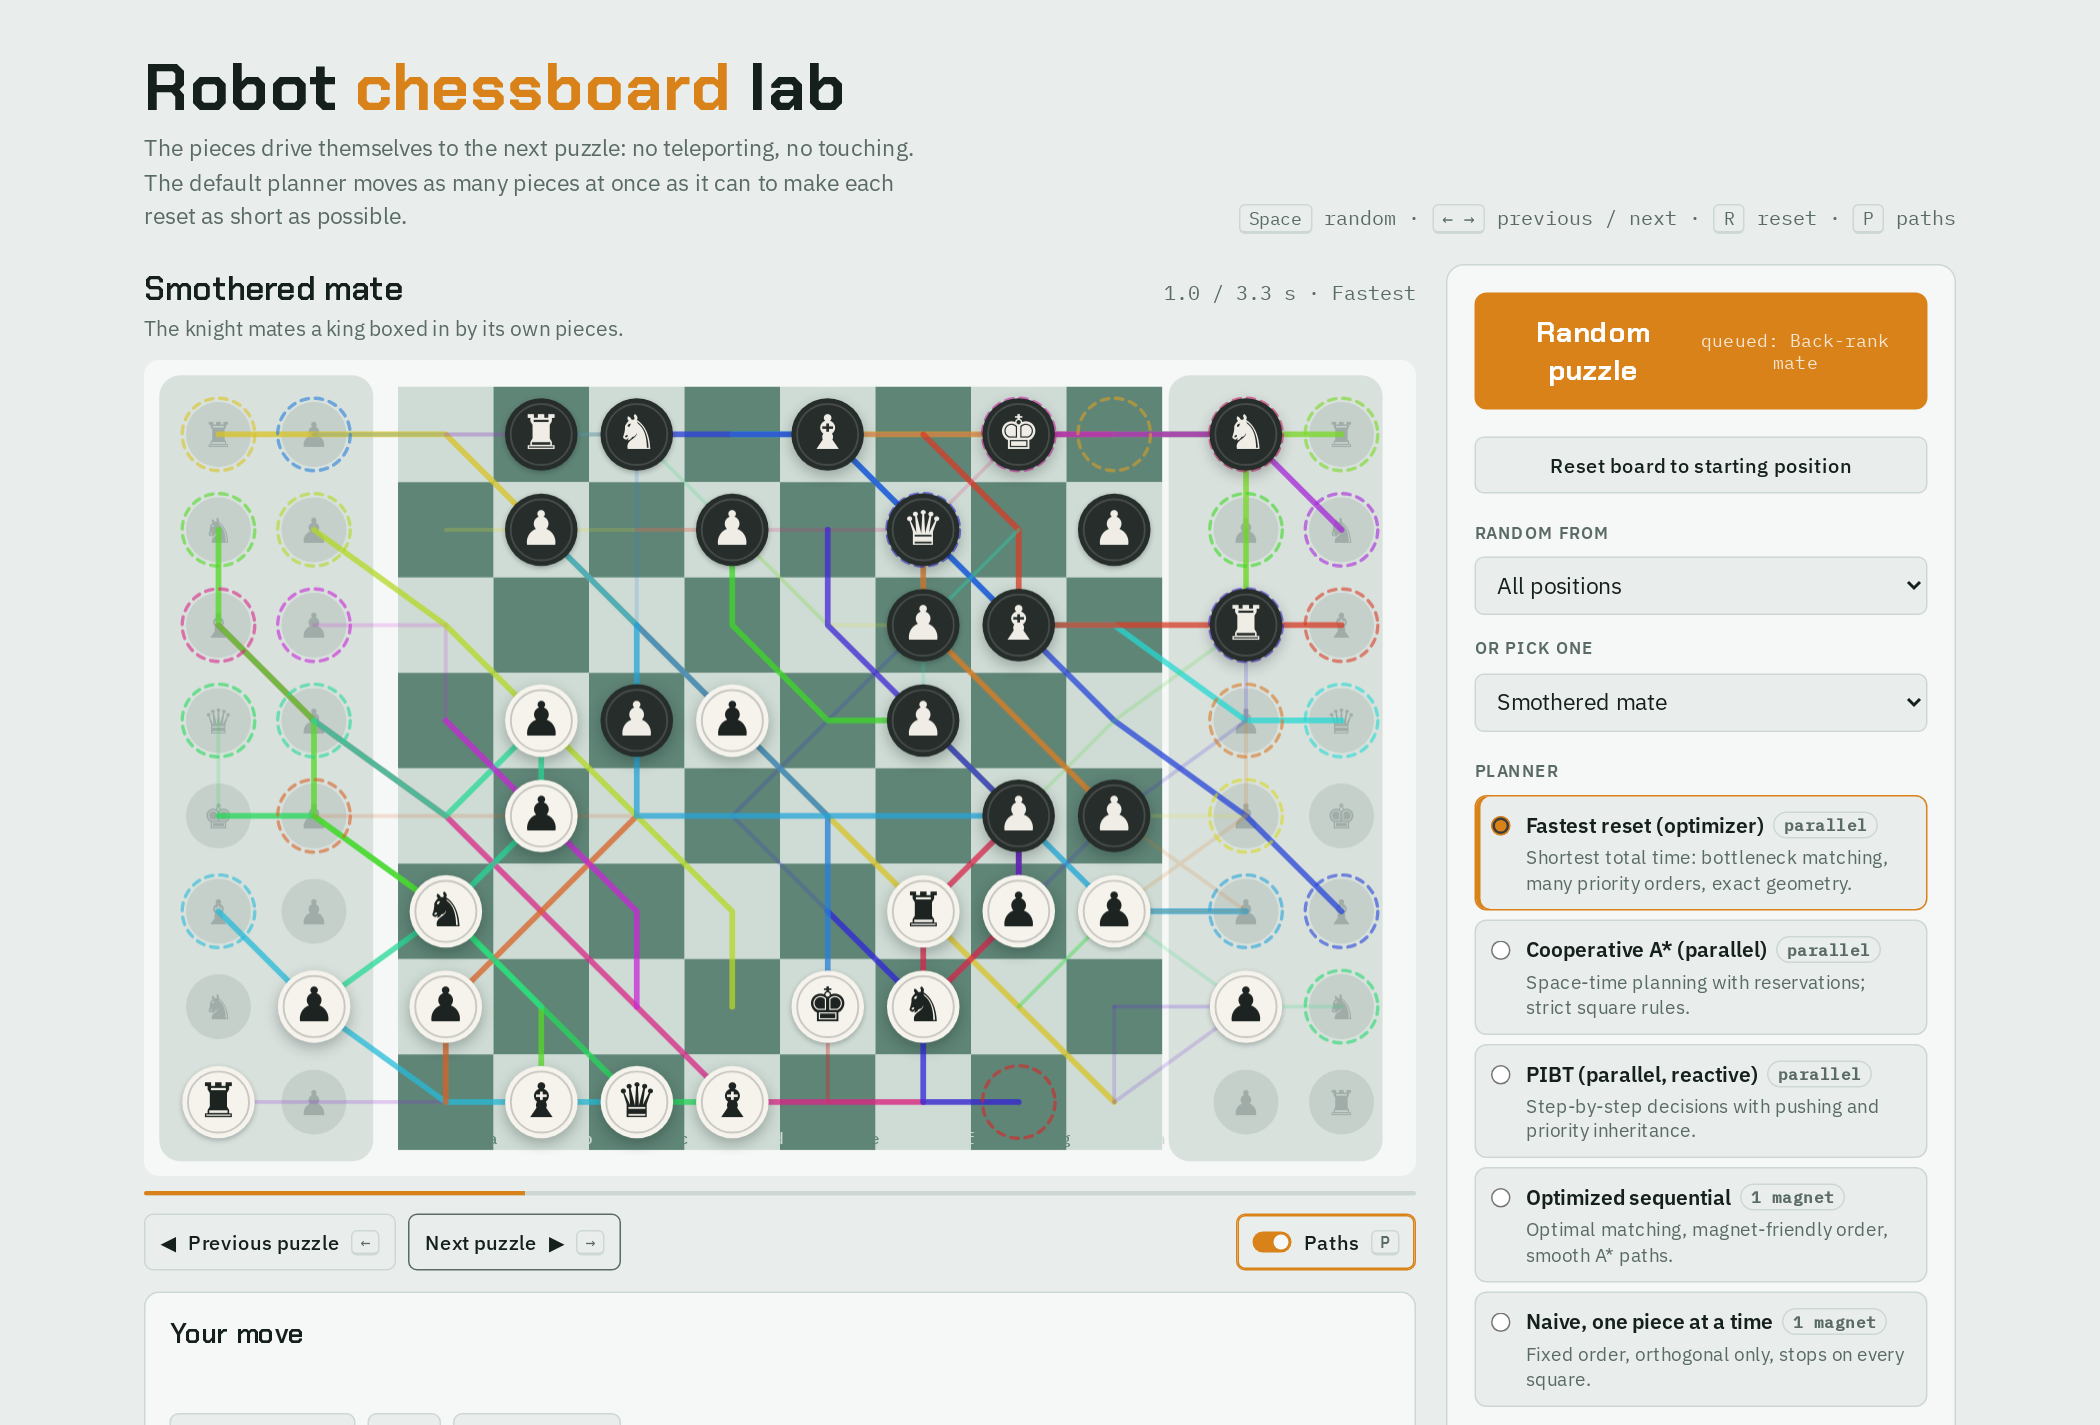
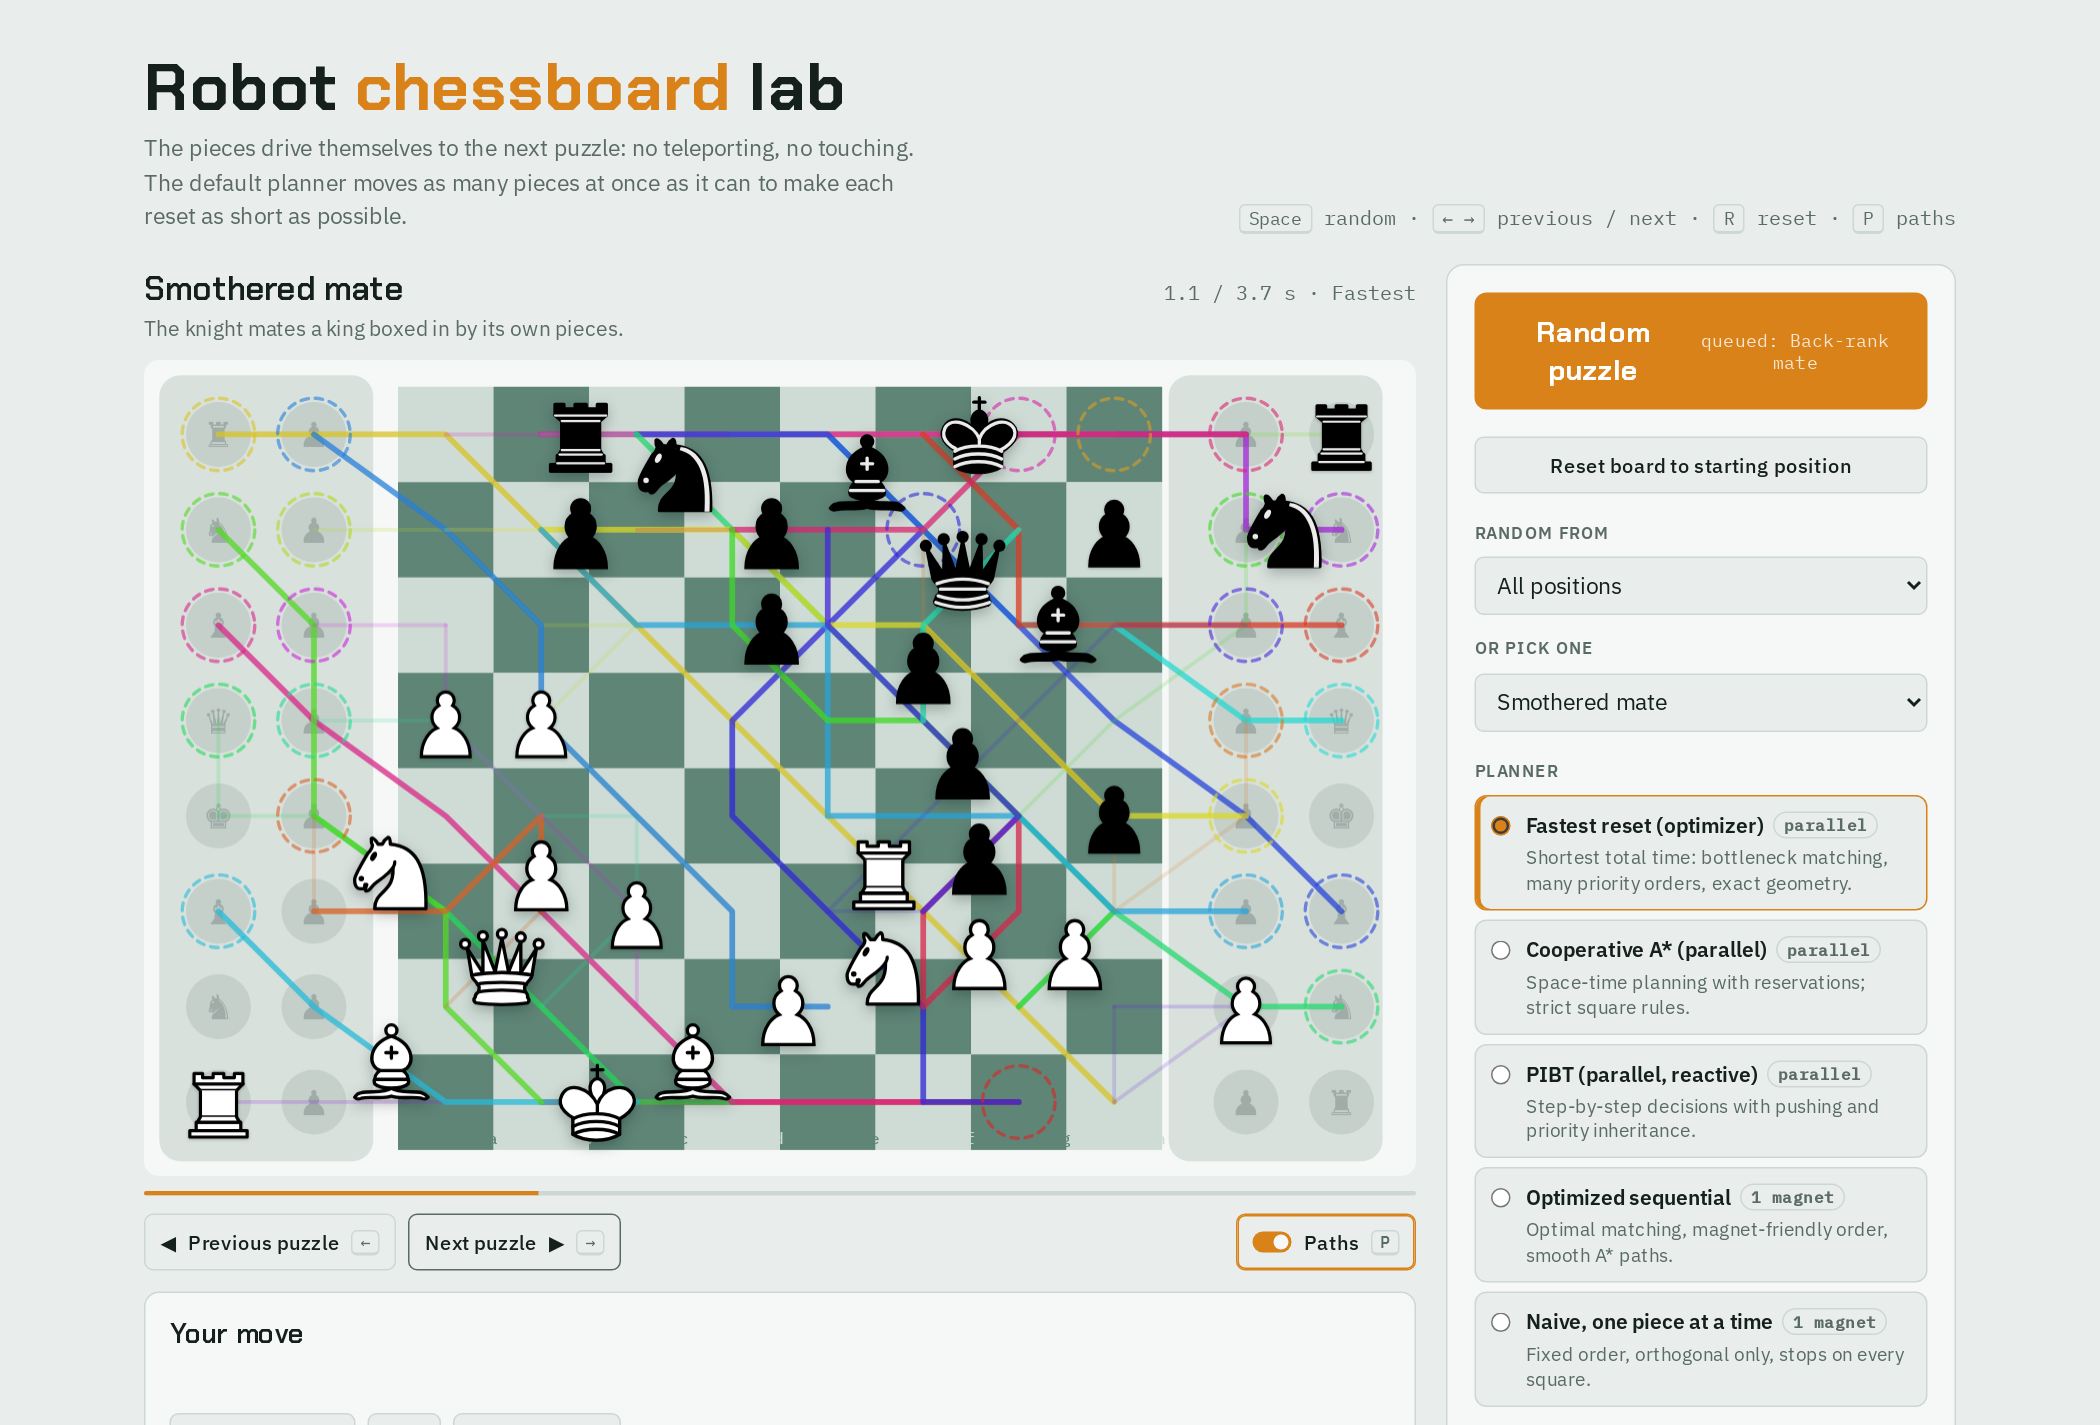
Classic chess pieces instead of discs
The cburnett set (Colin M.L. Burnett, BSD license) is drawn on the canvas by default; a
checkbox under Movement rules brings the round discs back. Screenshots updated.

diff --git a/static/js/pieces.js b/static/js/pieces.js
@@ -1,0 +1,19 @@
+// Chess pieces: the cburnett set by Colin M.L. Burnett, from Wikimedia Commons
+// (https://commons.wikimedia.org/wiki/Category:SVG_chess_pieces), used under its BSD license.
+// Key = piece letter as in FEN (uppercase = white). Loaded once; drawn on the canvas by drawPiece in app.js.
+const PIECE_SVG = {
[12 lines of base64/hex data omitted]
+};
+const PIECE_IMG = {};
+for (const k in PIECE_SVG) { const img = new Image(); img.src = PIECE_SVG[k]; PIECE_IMG[k] = img; }

diff --git a/static/js/app.js b/static/js/app.js
@@ -18,6 +18,8 @@ let carPos = { x: 6, y: 4 };
 let anim = null, pending = null, last = null, currentKey = 'p0';
 let algo = 'fast';
 try { const s = localStorage.getItem('robo-algo2'); if (s && ALGOS[s]) algo = s; } catch (e) {}
+try { $('optDiscs').checked = localStorage.getItem('robo-discs') === '1'; } catch (e) {}
+$('optDiscs').addEventListener('change', () => { try { localStorage.setItem('robo-discs', $('optDiscs').checked ? '1' : '0'); } catch (e) {} });
 
 // --- control UI ---
 const sel = $('pzSel');
@@ -269,6 +271,15 @@ function drawMagnet(p) {
 }
 function drawPiece(ag, p, lifted) {
   const x = p.screen ? p.x : vx(p.x), y = p.y;
+  const img = PIECE_IMG[ag.t];
+  if (!$('optDiscs').checked && img && img.complete && img.naturalWidth) {
+    const size = 1.0 + (lifted ? 0.05 : 0);   // a square wide; slightly bigger while it moves
+    ctx.save();
+    ctx.shadowColor = tok['--shadow']; ctx.shadowBlur = (lifted ? 0.2 : 0.05) * S; ctx.shadowOffsetY = (lifted ? 0.07 : 0.015) * S;
+    ctx.drawImage(img, x - size / 2, y - size / 2, size, size);
+    ctx.restore();
+    return;
+  }
   ctx.save();
   ctx.shadowColor = tok['--shadow']; ctx.shadowBlur = (lifted ? 0.22 : 0.08) * S; ctx.shadowOffsetY = (lifted ? 0.08 : 0.03) * S;
   ctx.fillStyle = ag.white ? tok['--pw'] : tok['--pb'];

diff --git a/static/index.html b/static/index.html
@@ -71,6 +71,7 @@
           <label><input type="checkbox" id="optTrails" checked> Show paths and targets</label>
           <label><input type="checkbox" id="optCar" checked> Show the magnet under the board</label>
           <label><input type="checkbox" id="optHand" checked> Take captured pieces by hand</label>
+          <label><input type="checkbox" id="optDiscs"> Show pieces as round discs</label>
         </div>
         <p class="lbl" style="margin-top:14px">Piece diameter</p>
         <input type="range" id="diam" min="0.6" max="0.9" step="0.02" value="0.76" aria-label="Piece diameter">
@@ -114,6 +115,7 @@
 <script src="js/engine.js"></script>
 <script src="js/puzzles.js"></script>
 <script src="js/chess.js"></script>
+<script src="js/pieces.js"></script>
 <script src="js/app.js"></script>
 </body>
 </html>

diff --git a/README.md b/README.md
@@ -65,6 +65,7 @@ No packages are needed, only Python 3.8+ (or nothing at all, see below).
 | `static/index.html` | Page layout |
 | `static/css/style.css` | Colors, fonts, layout (light and dark theme) |
 | `static/js/engine.js` | Motion planning: grid, assignment (Hungarian, bottleneck), sequential planner, Cooperative A\*, PIBT, the fastest-reset optimizer, collision checking |
+| `static/js/pieces.js` | The piece images (cburnett set, see License) |
 | `static/js/puzzles.js` | Puzzle database (FEN positions). Add your own here |
 | `static/js/chess.js` | Chess rules: legal moves, check, mate-in-two solver, robot defence |
 | `static/js/app.js` | Drawing, animation, buttons, playing moves |
@@ -93,4 +94,4 @@ I set the problem and the rules; the code was written with Claude Code under my 
 
 ## License
 
-MIT
+MIT. The chess pieces are the cburnett set by Colin M.L. Burnett, from [Wikimedia Commons](https://commons.wikimedia.org/wiki/Category:SVG_chess_pieces), under its BSD license.
